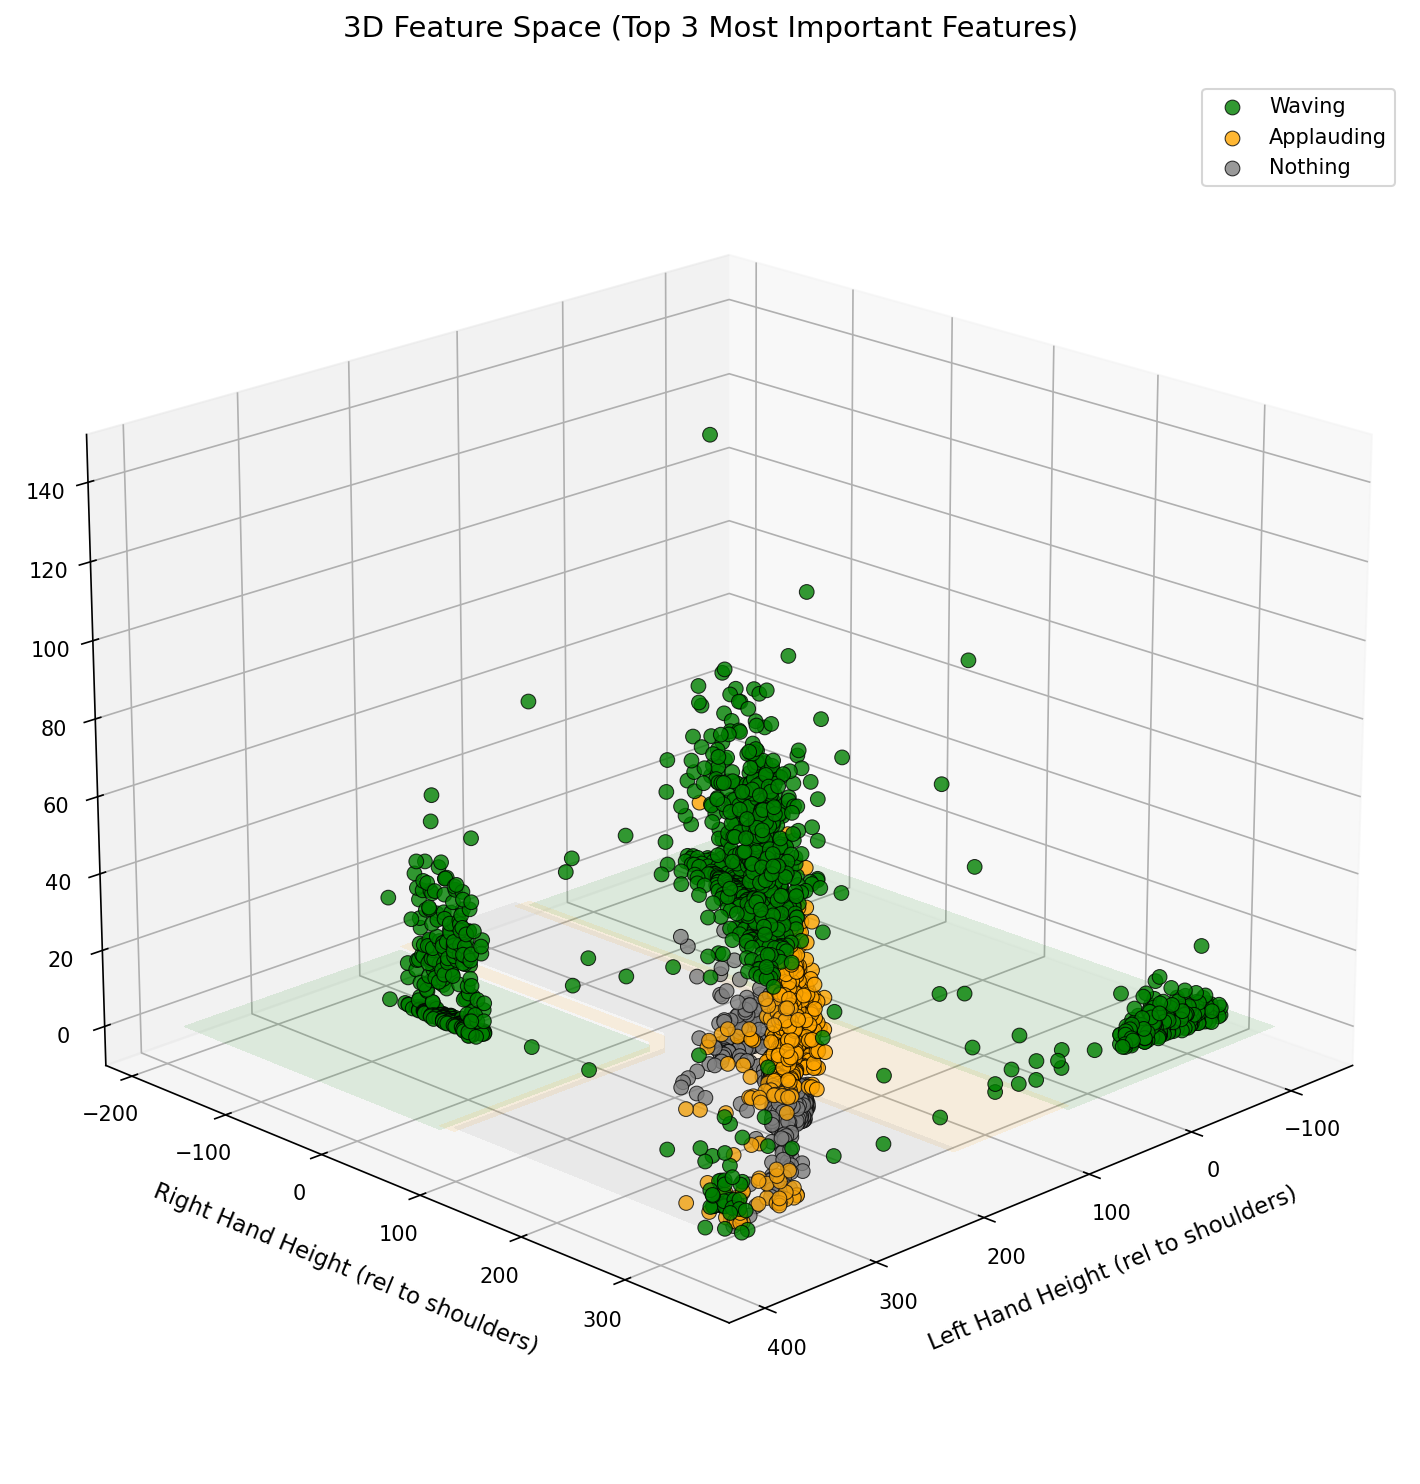
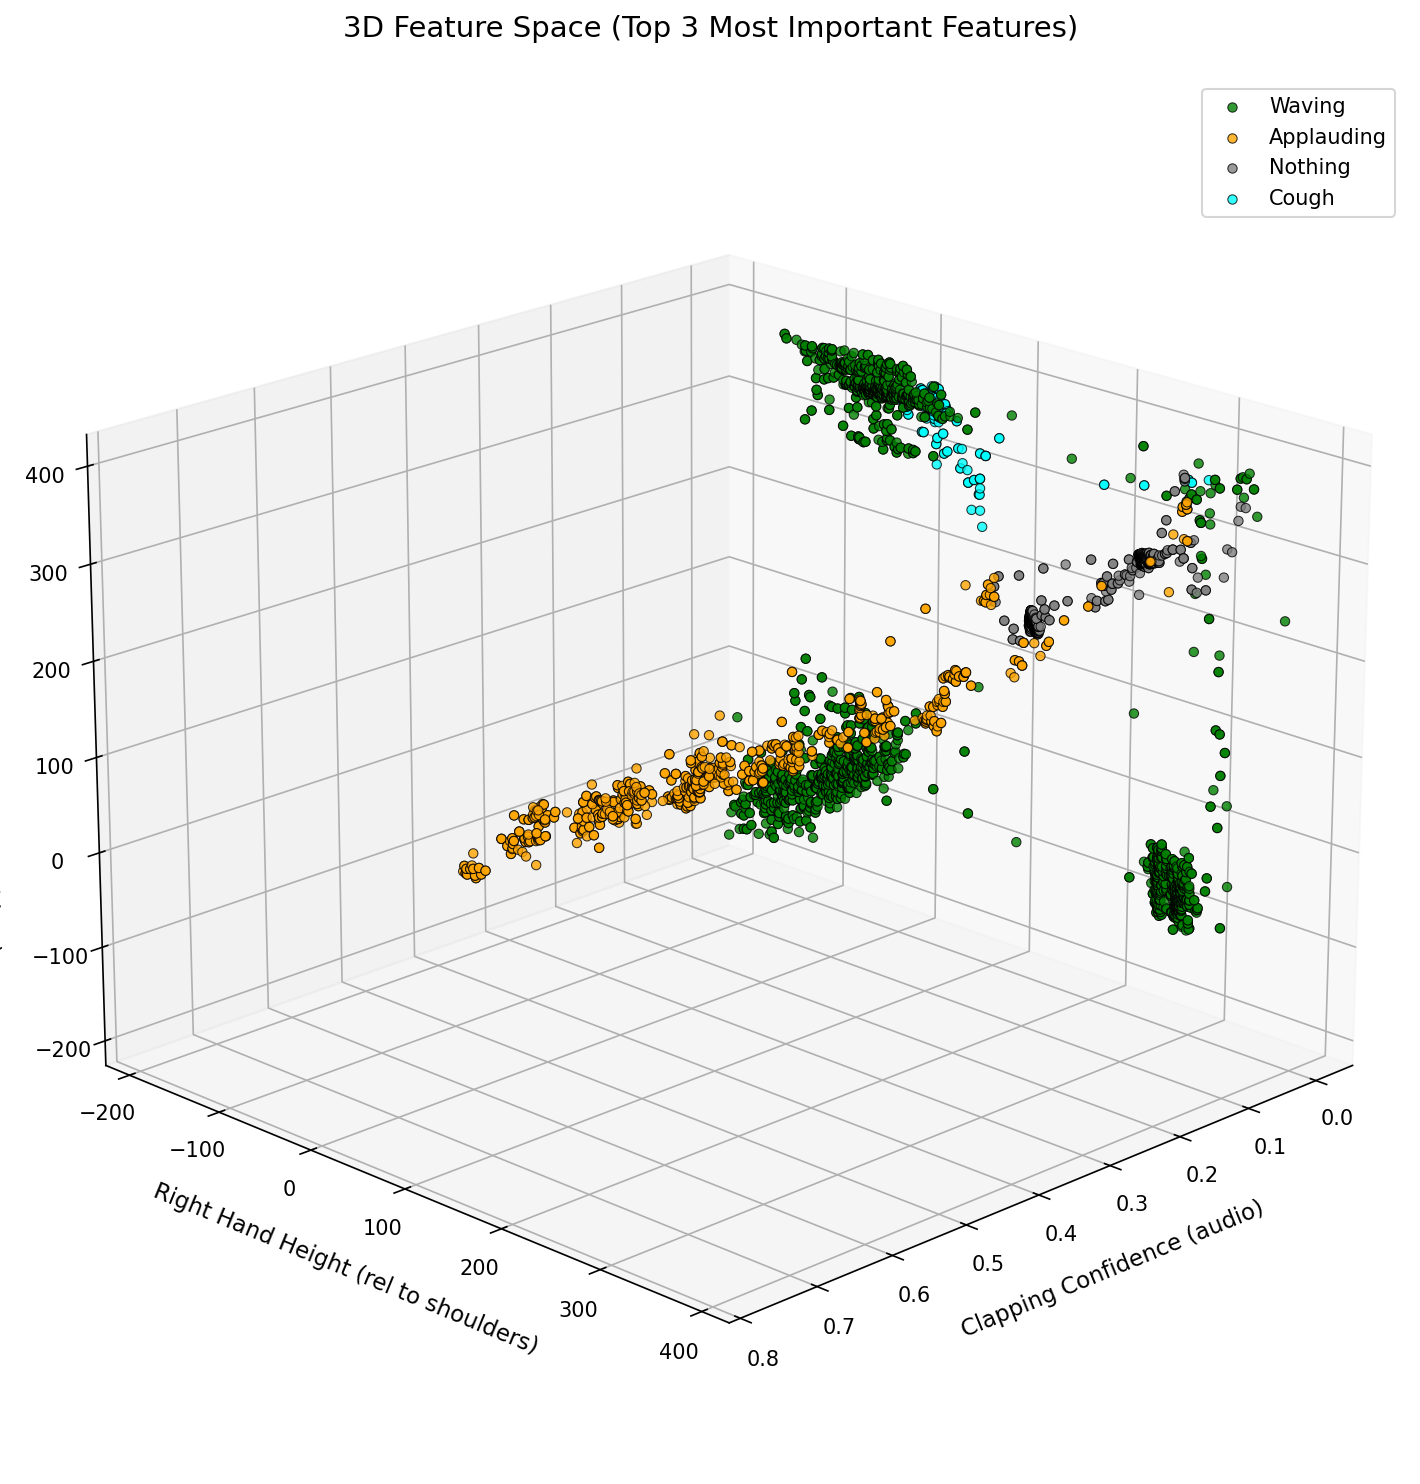
DOC: update readme

diff --git a/README.md b/README.md
@@ -4,24 +4,32 @@ A real-time gesture detection system that uses YOLO pose estimation and decision
 
 ## Demo
 
+Multimodal gesture detection:
+![Gesture Detection Demo](assets/inference_audio.gif)
+
+Earlier iteration without audio:
 ![Gesture Detection Demo](assets/inference.gif)
 
 ## Features
 
-The system detects three gesture classes:
-- **Waving**: Hand moving side to side
-- **Applauding**: Both hands moving together (clapping motion)
-- **Nothing**: Still hands
+The system detects four classes using multimodal detection (visual + audio):
+- **Waving**: Hand moving side to side (visual)
+- **Applauding**: Both hands moving together with clapping motion (visual + audio)
+- **Nothing**: Still hands, no activity
+- **Cough**: Coughing sounds (audio)
 
 ## How It Works
 
 1. **Pose Estimation**: Uses YOLOv8n-pose to detect body keypoints (wrists and shoulders)
-2. **Feature Extraction**: Extracts 4 features from keypoints:
+2. **Audio Classification**: Uses CNN14 (AudioSet pre-trained) to classify audio events
+3. **Feature Extraction**: Extracts 6 features:
    - Left hand velocity
    - Right hand velocity
    - Left hand height relative to shoulders
    - Right hand height relative to shoulders
-3. **Classification**: Decision tree classifier (max_depth=3) predicts the gesture
+   - Cough confidence (from audio)
+   - Clapping confidence (from audio)
+4. **Classification**: Decision tree classifier (max_depth=3) predicts the gesture/sound
 
 ## Installation
 
@@ -32,7 +40,7 @@ uv sync
 
 **Using pip:**
 ```bash
-pip install torch ultralytics opencv-python scikit-learn numpy matplotlib
+pip install torch ultralytics opencv-python scikit-learn numpy matplotlib librosa pyaudio
 ```
 
 ## Usage
@@ -48,8 +56,9 @@ python main.py
 
 Controls:
 - Press `w` to record WAVING gestures
-- Press `a` to record APPLAUDING gestures
+- Press `a` to record APPLAUDING gestures (visual + clapping audio)
 - Press `n` to record NOTHING gestures (still hands)
+- Press `c` to record COUGH sounds (audio)
 - Press `SPACE` to pause/resume recording
 - Press `s` to save the trained model
 - Press `q` to quit without saving
@@ -76,17 +85,18 @@ python visualize_features.py
 ### Feature Space Visualization
 
 ![Feature Space Visualization](assets/feature_space_visualization.png)
-*2D Feature Space showing the distribution of training samples across velocity and height features. As you can see, our features could be improved a lot, as the velocity features seem to be unused. Note that improving our pose estimation as well as the framerate could definitely help here.*
+*2D Feature Space showing the distribution of training samples across velocity and height features for the 4 classes (waving, applauding, nothing, cough).*
 
 ![3D Feature Space](assets/feature_space_3d.png)
-*3D Feature Space displaying the top 3 most important features with decision boundaries, revealing how the classifier separates different gestures.*
+*3D Feature Space displaying the top 3 most important features from the 6-dimensional feature vector (visual + audio features), revealing how the classifier separates different gestures and sounds.*
 
 ## Model Architecture
 
 - **Pose Estimator**: YOLOv8n-pose
-- **Classifier**: Decision Tree (max_depth=3, min_samples_split=10, min_samples_leaf=5)
-- **Features**: 4 (velocities + relative heights)
-- **Classes**: 3 (waving, applauding, nothing)
+- **Audio Classifier**: CNN14 (AudioSet pre-trained, 527 classes)
+- **Gesture Classifier**: Decision Tree (max_depth=3, min_samples_split=10, min_samples_leaf=5)
+- **Features**: 6 (4 visual + 2 audio)
+- **Classes**: 4 (waving, applauding, nothing, cough)
 
 ## Performance
 
